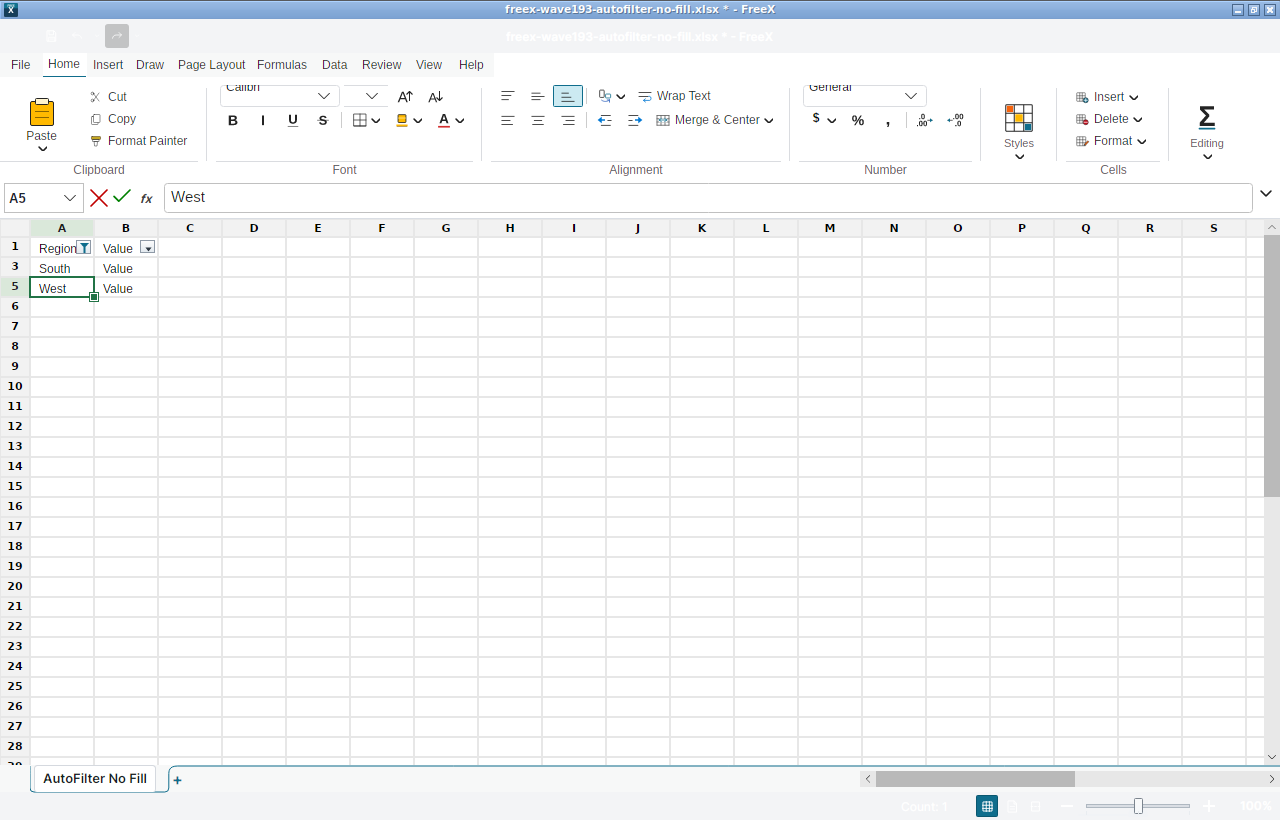
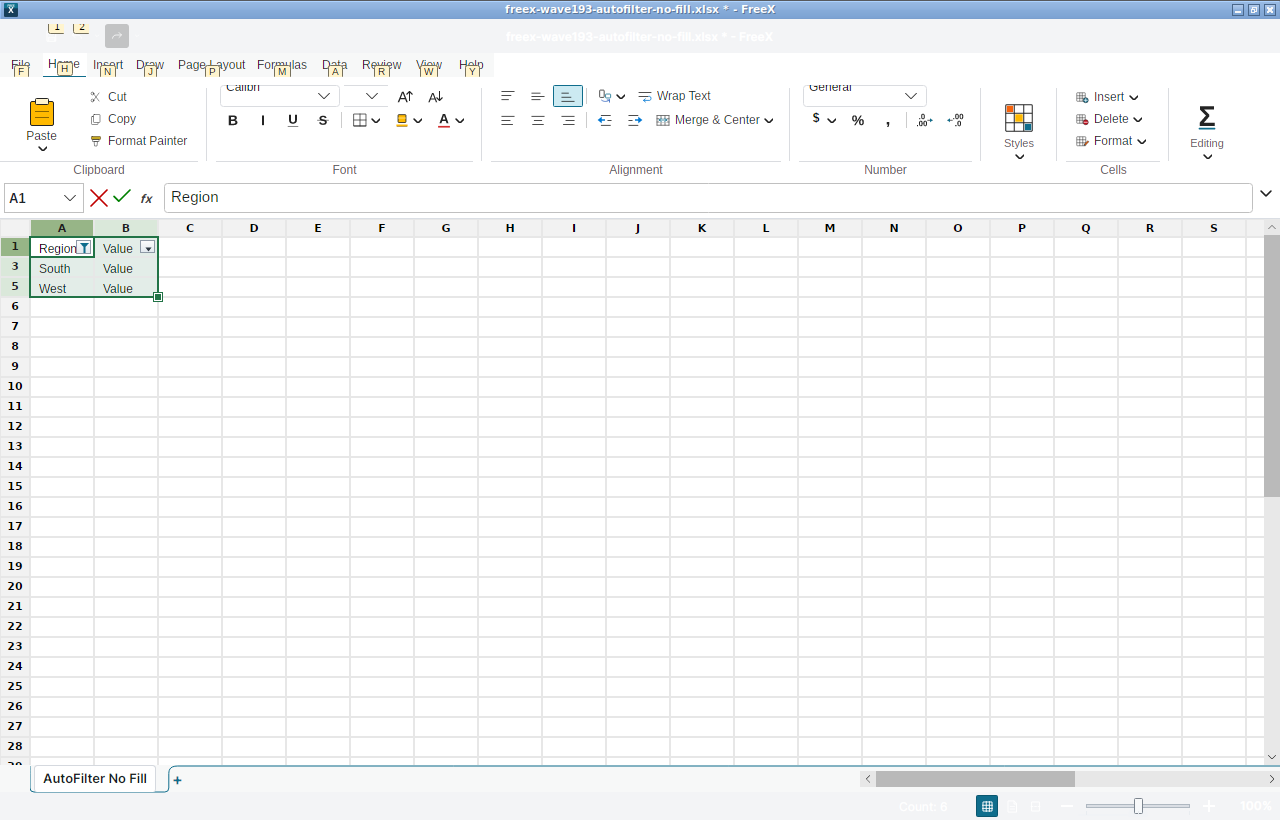
docs(parity): retain strengthened Wave193 popup evidence

diff --git a/docs/parity/avalonia-parity-wave193-freex-autofilter-no-fill-20260823.md b/docs/parity/avalonia-parity-wave193-freex-autofilter-no-fill-20260823.md
@@ -2,21 +2,24 @@
 
 Date: 2026-08-23
 Branch: codex/parity-wave193-freex-20260823
-Source commit: e1b0d85954028fc7f56e944d5622902bc251b6ce
+Source commit: 92507d139d6cd2c72b0538a67ba7b2266c56786d
 
 ## Result
 
 The production Linux/X11 lane proves **Filter by No Fill** through the actual
 Avalonia AutoFilter popup. The fixture contains filled North/East rows and
-unfilled South/West rows. The physical lane clicked the rendered No Fill
-swatch, observed South,West, saved, reopened through the production Open
-picker, and observed the same rows and A4=East after reload.
+unfilled South/West rows. The physical lane proved the rendered No Fill target
+appeared, clicked it, proved the target region returned to its pre-popup image,
+observed South,West, saved, reopened through the production Open picker, and
+observed the same rows and A4=East after reload.
 
 Physical lane: **1 passed, 0 failed, 1 total**.
 
 Exact postconditions:
 
-* rendered No Fill gate: button (177,439,75,27), click (219,456), sample (193,452), before/sample #FFFFFF
+* rendered No Fill gate: button (177,439,75,27), click (219,456), sample (193,452), #FFFFFF
+* popup target transition: open 1905 pixels (minimum 300), dismissed 1905 pixels (minimum 300), restored 0 pixels (maximum 100)
+* click acknowledgement: popup-open=true, popup-dismissed=true, signature-gate=true
 * applied visible rows: South,West,
 * clean save: true
 * package: ref=A1:B5|colId=0|cellColor=1|dxfId=0|dxf=empty
@@ -34,12 +37,13 @@ used for No Fill rather than a fabricated color.
 The production route reuses the existing shared menu plan, Avalonia color
 panel, WorksheetFilterWorkflowSession, CellNoFillColorFilterCommand, and XLSX
 color-filter DXF allocator. Wave193 adds the fixture, physical selector,
-rendered-swatch gate, reopen diagnostics, source guards, and package tests.
+bounded popup-open/dismissed gate, reopen diagnostics, source guards, and
+package tests.
 
 Focused tests passed:
 
-* dotnet test tests/FreeX.App.Avalonia.Tests/FreeX.App.Avalonia.Tests.csproj --configuration Release --filter FullyQualifiedName~Wave193AutoFilterNoFillPhysicalSourceTests: 3/3
-* dotnet test tests/FreeX.Core.IO.Tests/FreeX.Core.IO.Tests.csproj --configuration Release --filter R89/R90/XlsxAutoFilterAndLeafCodecTests: 8/8
+* dotnet test tests/FreeX.App.Avalonia.Tests/FreeX.App.Avalonia.Tests.csproj --configuration Release --no-build --filter FullyQualifiedName~Wave193AutoFilterNoFillPhysicalSourceTests: 3/3
+* dotnet test tests/FreeX.Core.IO.Tests/FreeX.Core.IO.Tests.csproj --configuration Release --no-build --filter R89/R90 color-filter DXF tests: 8/8
 
 The new package tests cover mixed filled/unfilled rows, SourcePatch, reload
 semantics, and a loaded all-No-Fill workbook where applying the criterion
@@ -48,10 +52,10 @@ produces no hidden-row delta but still persists the criterion.
 ## Evidence And Remaining Gaps
 
 Evidence, diagnostics, saved packages, canonical-LF/raw hashes, and committed
-source provenance are retained in
+source provenance and the three bounded target-region crops are retained in
 docs/parity/evidence/wave193-freex-autofilter-no-fill-20260823/manifest.json.
 The clean production image was built from the source commit above; app image
-id: sha256:561e22e144ac00be3c8fd8ab3634eb9649e85c6edbd03562d6292dcb0624f5c4.
+id: sha256:f10318df56fa3a634a7a9a8982ab763c6d203b6f675e90e3e4e2d47ee7e51345.
 
 This slice closes No Fill only. Remaining FreeX physical AutoFilter color gaps
 are mixed-type columns, multi-column criteria, and color-filter change/clear
